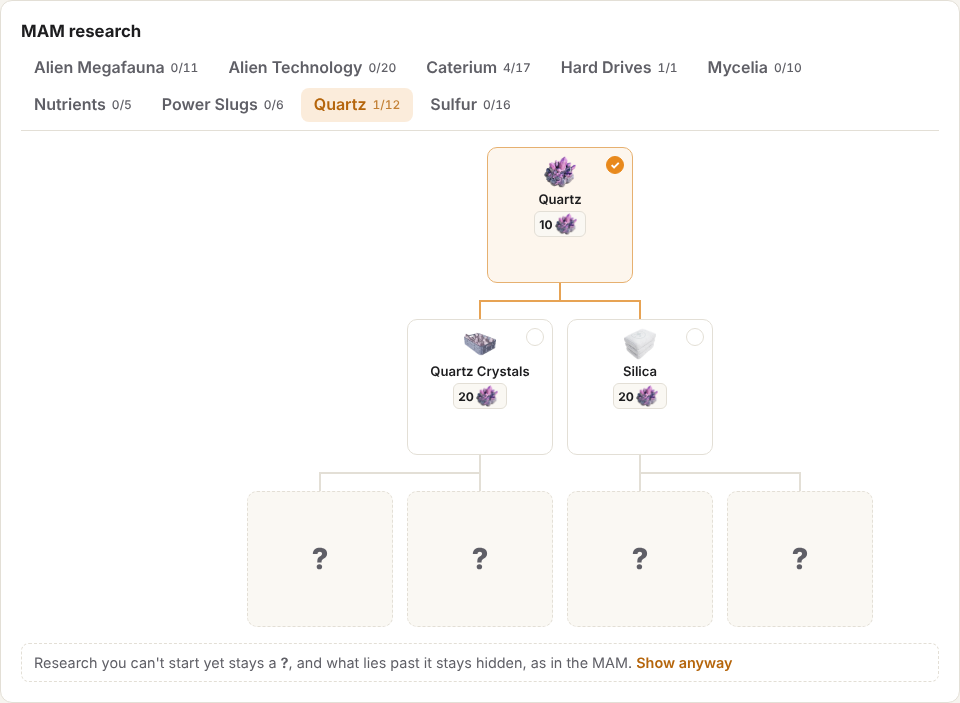
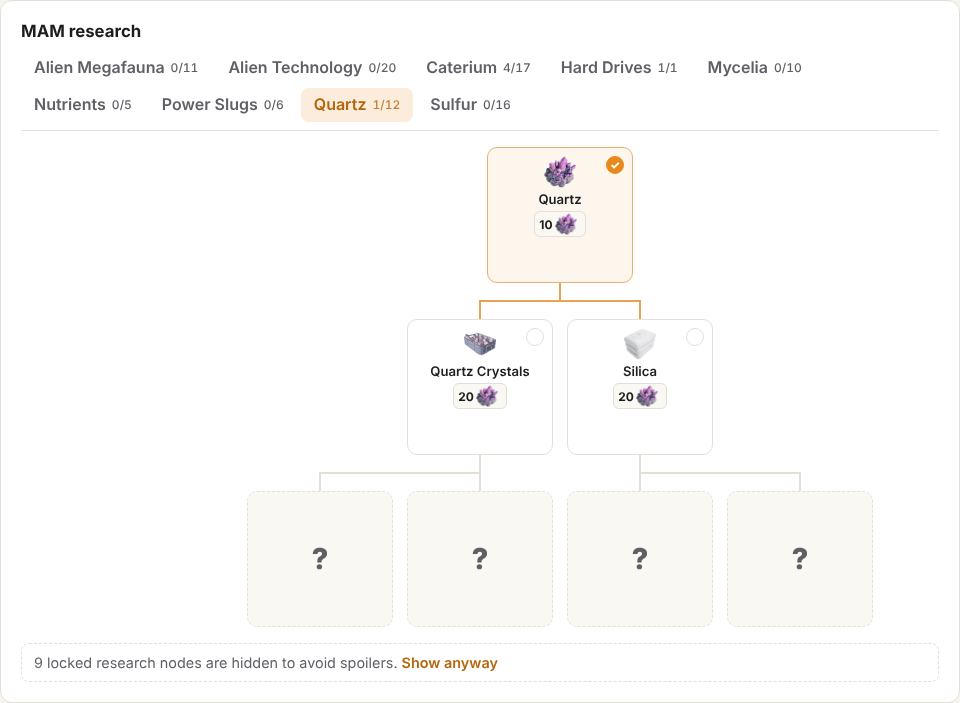
Use one spoiler note for milestones and MAM research
Both lists now end with the same note: what is hidden and 'Show anyway',
then 'Hide spoilers' to put it back. Spoilers stay hidden by default.

Part of #45

Claude-Session: https://claude.ai/code/session_014LuA41jY3boNExQNV5Uxht

Changed region(s): [[0.0312, 0.926, 0.7812, 0.9559]]

diff --git a/src/screens/MamResearch.tsx b/src/screens/MamResearch.tsx
@@ -3,6 +3,7 @@ import { progression, schematicsById, type Schematic } from '../data'
 import { availability, type GameState } from '../state/gameState'
 import { NoIconLinks } from '../ui/GameIcon'
 import { Costs, SchematicIcon } from '../ui/SchematicIcon'
+import { SpoilerNote } from '../ui/SpoilerNote'
 import { layoutTree } from './mamLayout'
 
 const HARD_DRIVE = 'Research_HardDrive_0_C'
@@ -34,6 +35,12 @@ export function MamResearch({ state, flip }: { state: GameState; flip: (id: stri
   // Open on the first tree with research under way, like returning to the MAM.
   const current = trees.find((t) => t.id === tab) ?? trees.find((t) => progress(t.nodes) > 0) ?? trees[0]
 
+  // Research no parent of which is done yet: drawn as a "?" or not at all until revealed.
+  const locked = current.nodes.filter((id) => {
+    const ps = schematicsById.get(id)?.mamParents ?? []
+    return !owned(id) && ps.length > 0 && !ps.some(owned)
+  }).length
+
   return (
     <>
       <div className="tabs subtabs" role="tablist" aria-label="Research trees">
@@ -54,23 +61,11 @@ export function MamResearch({ state, flip }: { state: GameState; flip: (id: stri
         ))}
       </div>
       <Tree key={current.id} nodes={current.nodes} owned={owned} flip={flip} reveal={reveal} />
-      <p className="spoiler-note">
-        {reveal ? (
-          <>
-            Showing the whole tree.{' '}
-            <button type="button" className="link" onClick={() => setReveal(false)}>
-              Hide spoilers
-            </button>
-          </>
-        ) : (
-          <>
-            Research you can't start yet stays a <b>?</b>, and what lies past it stays hidden, as in the MAM.{' '}
-            <button type="button" className="link" onClick={() => setReveal(true)}>
-              Show anyway
-            </button>
-          </>
-        )}
-      </p>
+      <SpoilerNote
+        hidden={locked > 0 ? `${locked} locked research ${locked === 1 ? 'node is' : 'nodes are'}` : null}
+        revealed={reveal}
+        onChange={setReveal}
+      />
     </>
   )
 }

diff --git a/src/screens/Setup.tsx b/src/screens/Setup.tsx
@@ -16,6 +16,7 @@ import { Backup } from './Backup'
 import { NoIconLinks } from '../ui/GameIcon'
 import { Costs, SchematicIcon, Unlocks } from '../ui/SchematicIcon'
 import { MamResearch } from './MamResearch'
+import { SpoilerNote } from '../ui/SpoilerNote'
 
 const toggle = (list: string[], id: string) => (list.includes(id) ? list.filter((x) => x !== id) : [...list, id])
 
@@ -208,14 +209,11 @@ export function Setup() {
               ))}
           </div>
         )}
-        {hiddenTiers > 0 && (
-          <p className="spoiler-note">
-            {hiddenTiers} later {hiddenTiers === 1 ? 'tier is' : 'tiers are'} hidden to avoid spoilers.{' '}
-            <button type="button" className="link" onClick={() => setRevealAll(true)}>
-              Show anyway
-            </button>
-          </p>
-        )}
+        <SpoilerNote
+          hidden={hiddenTiers > 0 ? `${hiddenTiers} later ${hiddenTiers === 1 ? 'tier is' : 'tiers are'}` : null}
+          revealed={revealAll}
+          onChange={setRevealAll}
+        />
       </section>
 
       <section className="panel">

diff --git a/src/ui/SpoilerNote.tsx b/src/ui/SpoilerNote.tsx
@@ -1,0 +1,25 @@
+/**
+ * The one spoiler toggle for lists that hide what the game would not show yet: a note at the
+ * bottom of the list saying what is hidden, with "Show anyway", and "Hide spoilers" to undo it.
+ * Spoilers are hidden by default; nothing is drawn when nothing is hidden.
+ */
+export function SpoilerNote({
+  hidden,
+  revealed,
+  onChange,
+}: {
+  /** What is hidden, as a phrase such as "5 later tiers are". Empty or null when nothing is. */
+  hidden: string | null
+  revealed: boolean
+  onChange: (revealed: boolean) => void
+}) {
+  if (!revealed && !hidden) return null
+  return (
+    <p className="spoiler-note">
+      {revealed ? 'Showing everything, spoilers included.' : `${hidden} hidden to avoid spoilers.`}{' '}
+      <button type="button" className="link" onClick={() => onChange(!revealed)}>
+        {revealed ? 'Hide spoilers' : 'Show anyway'}
+      </button>
+    </p>
+  )
+}
